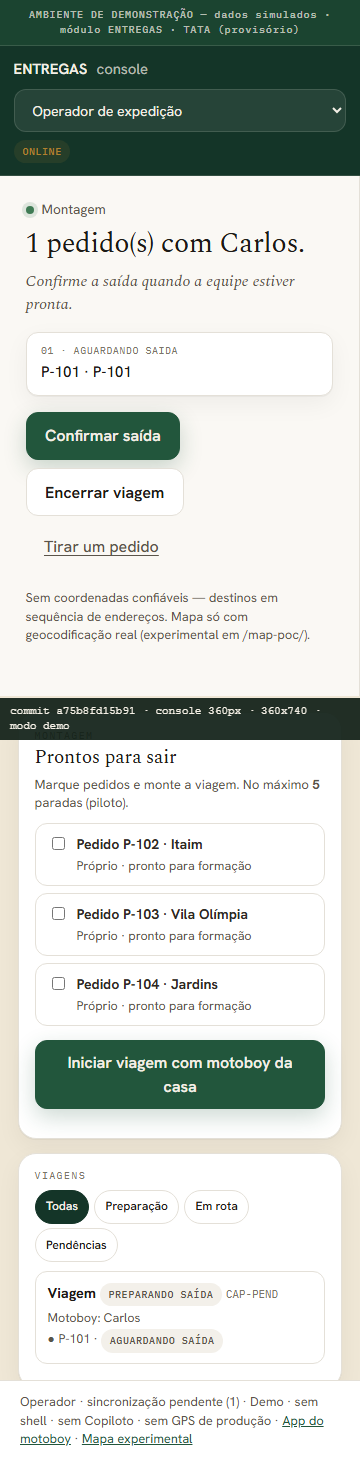
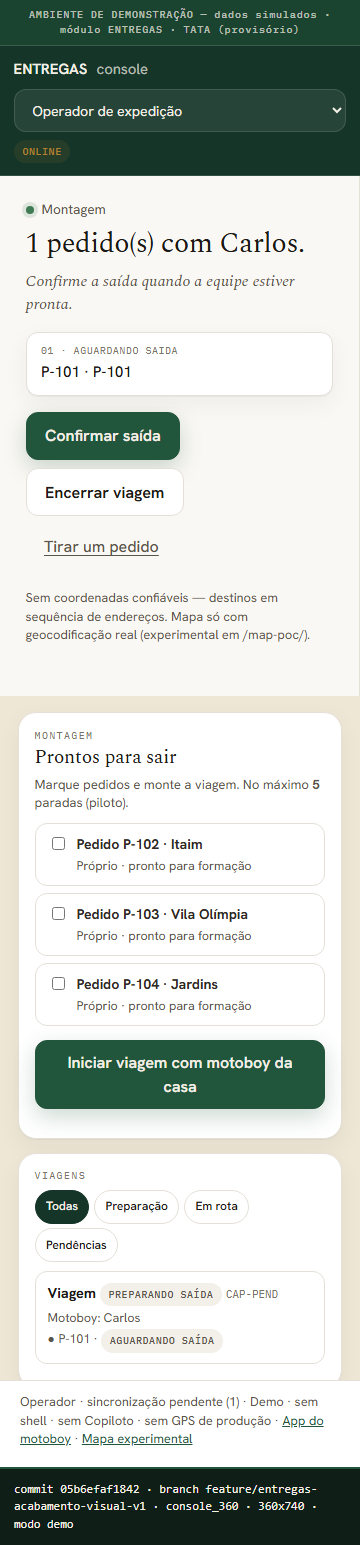
docs(entregas): recapturas acabamento carimbadas em 05b6efa
Pacote de 8 capturas gerado com working tree limpo no HEAD 05b6efa. Carimbo externo (faixa anexada). Modo operacional sem texto de demonstracao.

diff --git a/docs/entregas/ux/capturas-acabamento-v1/README.md b/docs/entregas/ux/capturas-acabamento-v1/README.md
@@ -1,16 +1,22 @@
 # Capturas — acabamento visual ENTREGAS v1
 
-- Branch: `feature/entregas-acabamento-visual-v1`
-- Commit base (HEAD ao gerar; working tree pode ter WIP): `a75b8fd15b91`
-- Gerado por: `tools/capturas_acabamento_visual.mjs`
+- **Commit (evidência):** `05b6efaf1842` (`05b6efaf1842180cf7d220eb6e57c72f9366cccf`)
+- **Branch:** `feature/entregas-acabamento-visual-v1`
+- **Gerado por:** `tools/capturas_acabamento_visual.mjs`
+- **Carimbo:** faixa técnica *abaixo* do screenshot da UI (não cobre a interface)
+- **Working tree ao gerar:** limpo (código commitado = HEAD carimbado)
 
-| Arquivo | Cenário | Viewport | Modo |
-|---------|---------|----------|------|
-| 01_mobile_online.png | mobile_online | 390x844 | demo |
-| 02_mobile_offline.png | mobile_offline | 390x844 | demo |
-| 03_mobile_pending_sync.png | mobile_pending_sync | 390x844 | demo |
-| 04_console_360.png | console_360 | 360x740 | demo |
-| 05_ifood_conferencia.png | ifood_conferencia | 390x844 | demo |
-| 06_ifood_conclusao.png | ifood_conclusao | 390x844 | demo |
-| 07_demo_com_controles.png | demo_com_controles | 390x844 | demo |
-| 08_operacional_sem_controles.png | operacional_sem_controles | 390x844 | operacional |
+| Arquivo | Cenário | Viewport | Modo | Commit |
+|---------|---------|----------|------|--------|
+| 01_mobile_online.png | mobile_online | 390x844 | demo | `05b6efaf1842` |
+| 02_mobile_offline.png | mobile_offline | 390x844 | demo | `05b6efaf1842` |
+| 03_mobile_pending_sync.png | mobile_pending_sync | 390x844 | demo | `05b6efaf1842` |
+| 04_console_360.png | console_360 | 360x740 | demo | `05b6efaf1842` |
+| 05_ifood_conferencia.png | ifood_conferencia | 390x844 | demo | `05b6efaf1842` |
+| 06_ifood_conclusao.png | ifood_conclusao | 390x844 | demo | `05b6efaf1842` |
+| 07_demo_com_controles.png | demo_com_controles | 390x844 | demo | `05b6efaf1842` |
+| 08_operacional_sem_controles.png | operacional_sem_controles | 390x844 | operacional | `05b6efaf1842` |
+
+## Verificação
+
+Todas as linhas da tabela, o `index.json` e os carimbos das imagens usam **o mesmo** commit acima.
